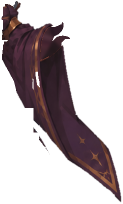
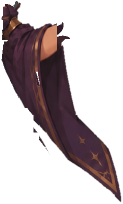
Redo the Seductress's left arm under the sleeve so it joins the shoulder
Painted guide arm repainted by NovelAI, plus an elbow touch-up; the forearm part now hands its first stretch to the arm piece.

diff --git a/tools/seductress_rig/battle/cut_strip.py b/tools/seductress_rig/battle/cut_strip.py
@@ -54,7 +54,6 @@ front = np.isin(lab, [i for i in range(len(D)) if i > D.index("SLEEVE_R")])
 # ---- targets: the rest pose with the chosen NovelAI result pasted in ----
 A = JOBS / "nai_jobs/STRIP_arms"
 tL = target(A / "context_full.png", A / "result_s1.png", (272, 400, 704, 512))
-tR = target(JOBS / "nai_jobs4/STRIP_arm_R/context_full.png", JOBS / "nai_jobs5/STRIP_shoulder_R/result_s1.png", (608, 352, 384, 384))
 F = JOBS / "nai_jobs/STRIP_feet"; tF = target(F / "context_full.png", F / "result_s1.png", (224, 1024, 768, 320))
 P = JOBS / "nai_jobs/STRIP_hips"; tP = target(P / "context_full.png", P / "result_s1.png", (400, 560, 448, 448))
 
@@ -71,16 +70,20 @@ armL = big(ndimage.binary_opening(regL & (cL == 1)), 400)
 save(piece(tL, armL), "ARM_L_bare")
 save(piece(tL, regL & fgL & ~armL & (cL != 2)), "SLEEVE_L_behind_hair")
 save(piece(tL, regL & fgL & ~armL & (cL == 2)), "SLEEVE_L_behind_skirt")
-# ---- right arm (picture right): skin only, in the corridor that was inpainted; tucked a little under the hair ----
-cor = np.zeros((H, W), np.uint8); cv2.polylines(cor, [np.array([(714, 480), (770, 578), (800, 558)], np.int32)], False, 1, 84)
-regR = cor > 0; regR[432:512, 696:784] = True
-regR &= ~front & ~np.isin(lab, ix("TORSO_upper", "BREASTS_plus_wrap_variant", "HAIR_side_R", "HEAD_face_plus_front_hair"))
+# ---- right arm (picture right): second round, a painted guide arm repainted by NovelAI (make_armR_jobs.py) ----
+# [Gorim 2026-11-22: "Left arm is fucked and needs fixing"] the first one sat apart from the shoulder with a flat top.
+# Used: nai_jobs6 keep70 seed 2 (best of 8), then nai_jobs7 seed 1, a touch-up of the elbow: the visible forearm's
+# end carried the shadow the sleeve cast on it, so the first ~35 px of the forearm are repainted too.
+tR = target(A / "context_full.png", JOBS / "nai_jobs7/ARM_R_elbow/result_s1.png", (608, 352, 384, 384))
+_keep = front | np.isin(lab, ix("TORSO_upper", "BREASTS_plus_wrap_variant", "HAIR_side_R", "HEAD_face_plus_front_hair", "BELLY_lower_torso_variant"))
+_fa = lab == D.index("ARM_R_forearm_hand")
+_seam = dil(_fa, 1) & dil(lab == D.index("SLEEVE_R"), 1) & (xx < 800)
+_d = ndimage.distance_transform_edt(~_seam)
+FADE_R = _fa & (_d < 50) & (xx < 806)                 # the forearm part fades out here; the arm piece below carries the repaint
+regR = (dil(np.array(Image.open(JOBS / "nai_jobs6/guide.png"))[..., 3] > 0, 14) & ~(_keep & ~_fa)) | (_fa & (_d < 54) & (xx < 810)) | ((_d < 34) & (lab < 0))
 cR, _ = classes(tR)
 armR = ndimage.binary_fill_holes(biggest(regR & (cR == 1)))
-tuck = dil(armR, 26) & ~armR & ~np.isin(lab, ix("TORSO_upper", "BELLY_lower_torso_variant")) & (yy < 525) & (xx < 742)   # hair and breasts are drawn over it
-_, (sy, sx) = ndimage.distance_transform_edt(~ero(armR, 3), return_indices=True)
-tR2 = tR.copy(); tR2[tuck] = tR[sy[tuck], sx[tuck]]
-save(piece(tR2, armR | tuck), "ARM_R_bare")     # wider than the sleeve's band, so it is off until the sleeve is
+save(piece(tR, armR), "ARM_R_bare")     # wider than the sleeve's band, so it is off until the sleeve is
 
 # ---- feet: the shin+foot part with the foot repainted bare ----
 cF, _ = classes(tF)
@@ -117,6 +120,12 @@ LOST = {}
 LOST["ARM_L_forearm_hand"] = move("ARM_L_forearm_hand", big((c0 != 1) & (xx > 372), 12), "SLEEVE_L")
 LOST["ARM_R_forearm_hand"] = move("ARM_R_forearm_hand", (big((c0 != 1) & (xx < 790), 12) | (xx < 773)) & (yy > 520), "SLEEVE_R")
 LOST["HIP_ornaments_right"] = move("HIP_ornaments_right", (xx > 758) & (yy < 745), "SLEEVE_R")
+MOVE["SLEEVE_R"] = MOVE.get("SLEEVE_R", np.zeros((H, W), bool)) | FADE_R      # the sleeve keeps a copy of the faded forearm end
+# loose bits of the right rear skirt beside the hip are really the right sleeve's tail: they go with the sleeve
+_sk = np.array(Image.open(WORK / "parts" / "SKIRT_rear_right.png"))[..., 3] > 0
+_sk &= ~(under_slv & (lab != D.index("SKIRT_rear_right")))
+TAIL_R = _sk & ~big(_sk, 1500) & (xx > 690) & (yy < 760)
+MOVE["SLEEVE_R"] |= TAIL_R
 SKIRTS = ("SKIRT_rear_left", "SKIRT_rear_right", "CLOTH_front_skirt_panel", "HIP_ornaments_left", "HIP_ornaments_right")
 def scrub(p, gone):
     """remove `gone` from a part: paint over where it lies inside the part, cut away where it is on the edge"""
@@ -129,10 +138,12 @@ for n in D:
     if n not in ("SLEEVE_L", "SLEEVE_R"): p[under_slv & ~own, 3] = 0
     if n not in SKIRTS: p[under_pan & ~own, 3] = 0
     if n in LOST and LOST[n].any(): scrub(p, LOST[n])
+    if n == "ARM_R_forearm_hand":                     # see FADE_R; the sleeve keeps a copy so the dressed pose is unchanged
+        p[FADE_R, 3] = (p[FADE_R, 3] * np.clip(np.maximum((_d[FADE_R] - 38) / 12.0, (xx[FADE_R] - 796) / 10.0), 0, 1)).astype(np.uint8)
     if n in MOVE:
         got = MOVE[n]; p[got, :3] = restf[got].astype(np.uint8); p[got, 3] = 255
     if n in ("SKIRT_rear_left", "SKIRT_rear_right"):                      # loose shards of filler left by the trimming
-        p[(p[..., 3] > 0) & ~big(p[..., 3] > 0, 1500), 3] = 0
+        p[(p[..., 3] > 0) & ~big(p[..., 3] > 0, 1500) & (~own | TAIL_R), 3] = 0
     if n in ("LEG_L_thigh", "LEG_R_thigh"):
         # dressed: real body under the skirt panel and ornaments instead of filler, for when they swing aside
         hid = body & under_pan & ((xx < 645) if n == "LEG_L_thigh" else (xx >= 645))
